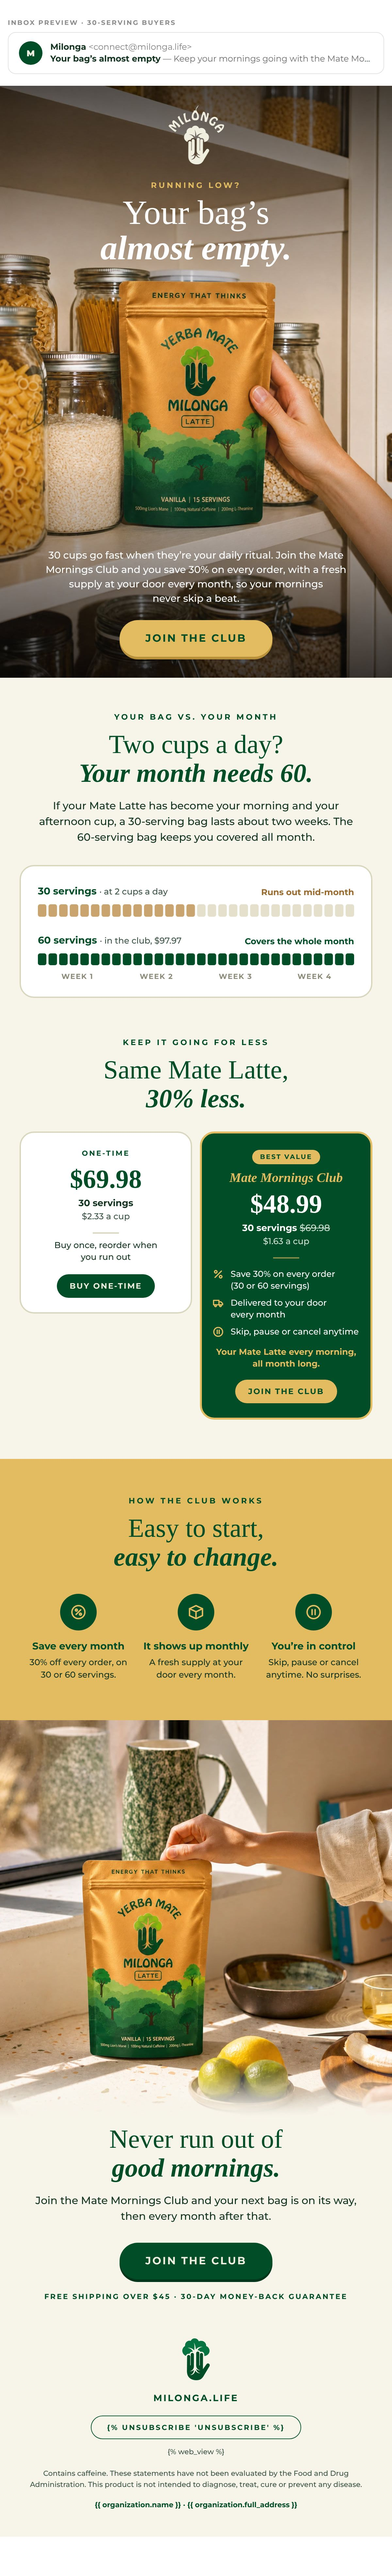
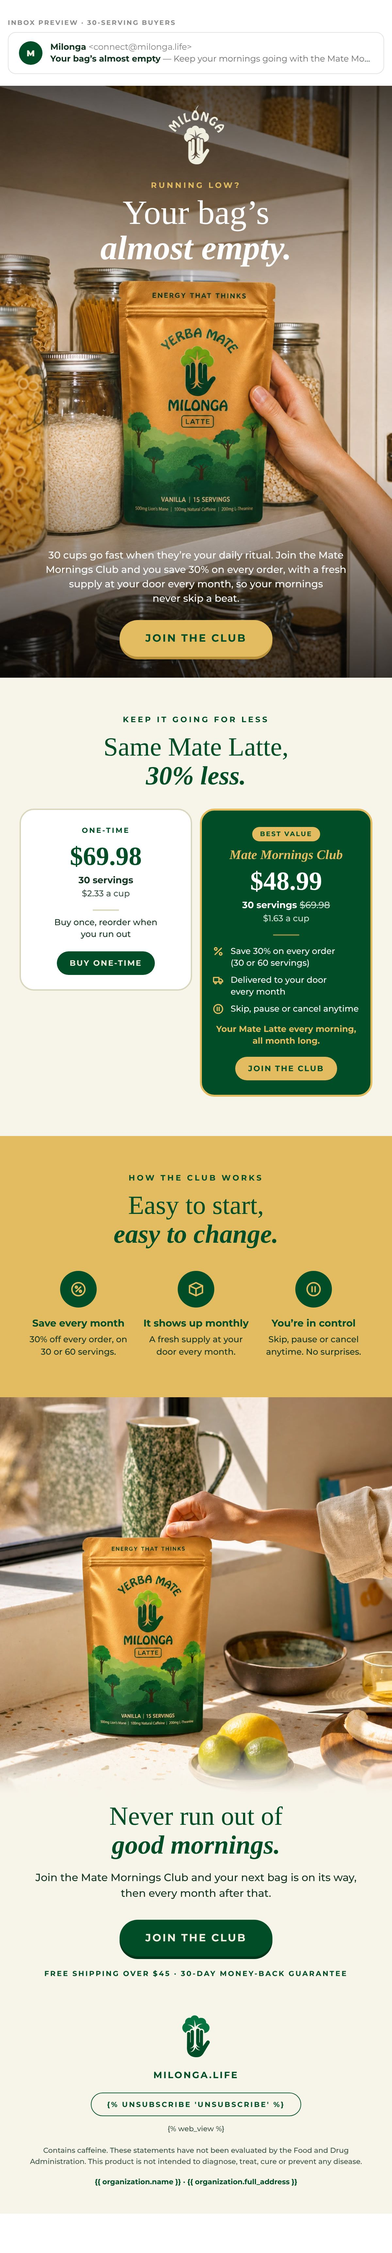
Post-purchase E3 (30 servings): remove the 'your bag vs. your month' section
Claude-Session: https://claude.ai/code/session_01NhEtXPnfeCJfN73SqBkUZ5

diff --git a/email-ds/exports/klaviyo/pp1-e3-30/pp1-e3-30.html b/email-ds/exports/klaviyo/pp1-e3-30/pp1-e3-30.html
@@ -90,36 +90,8 @@
 <!--[if gte mso 9]></v:textbox></v:rect><![endif]-->
 </td></tr>
 
-<!-- ── 2 · YOUR BAG VS. YOUR MONTH: a month of mornings, one segment a day; their bag
-     covers half of it, the next size up (in the club) all of it ── -->
-<tr><td class="pad bg-cream" align="center" bgcolor="#F7F4EA" style="background-color:#F7F4EA;padding:52px 40px 0;font-family:'Montserrat','Helvetica Neue',Helvetica,Arial,sans-serif;">
-<div style="font-size:12px;line-height:16px;font-weight:700;letter-spacing:3px;text-transform:uppercase;color:#004D27;">Your bag vs. your month</div>
-<div class="h-sec" style="padding-top:12px;font-family:'Times New Roman',Times,Georgia,serif;font-size:40px;line-height:44px;font-weight:400;color:#004D27;">Two cups a day?</div>
-<div class="h-sec" style="font-family:'Times New Roman',Times,Georgia,serif;font-size:40px;line-height:44px;font-weight:700;font-style:italic;color:#004D27;">Your month needs 60.</div>
-<div class="lead" style="padding-top:16px;font-size:16px;line-height:24px;font-weight:500;color:#12331F;">If your Mate Latte has become your morning and your afternoon cup, a 30-serving bag lasts about two weeks. The <span style="white-space:nowrap;">60-serving bag</span> keeps you covered <span style="white-space:nowrap;">all month.</span></div>
-</td></tr>
-<tr><td class="pad-photo bg-cream" bgcolor="#F7F4EA" style="background-color:#F7F4EA;padding:30px 30px 56px;">
-<table role="presentation" width="100%" cellpadding="0" cellspacing="0" border="0" style="border-collapse:separate;"><tr>
-<td class="month-card" bgcolor="#FFFFFF" style="background-color:#FFFFFF;border:2px solid #D9D6BE;border-radius:22px;padding:28px 26px 24px;font-family:'Montserrat','Helvetica Neue',Helvetica,Arial,sans-serif;">
-<table role="presentation" width="100%" cellpadding="0" cellspacing="0" border="0"><tr>
-<td class="month-label" align="left" valign="bottom" style="font-family:'Montserrat','Helvetica Neue',Helvetica,Arial,sans-serif;font-size:15px;line-height:19px;font-weight:700;color:#004D27;">30 servings <span class="month-price" style="font-size:13px;font-weight:500;color:#3B5344;"><span class="month-dot">&middot; </span>at 2 cups a day</span></td>
-<td class="month-verdict" align="right" valign="bottom" style="font-family:'Montserrat','Helvetica Neue',Helvetica,Arial,sans-serif;font-size:13px;line-height:17px;font-weight:700;color:#9A6B2F;">Runs out mid-month</td>
-</tr></table>
-<img class="month-bar" src="https://cdn.klaviyomail.com/company/TwvSnK/images/be2a5750-37c7-4c43-83a0-abaf8ab10509.png" width="484" height="19" alt="At two cups a day, half of the month covered" style="display:block;margin-top:10px;width:100%;max-width:484px;height:auto;border:0;">
-<div style="height:26px;line-height:26px;font-size:0;">&nbsp;</div>
-<table role="presentation" width="100%" cellpadding="0" cellspacing="0" border="0"><tr>
-<td class="month-label" align="left" valign="bottom" style="font-family:'Montserrat','Helvetica Neue',Helvetica,Arial,sans-serif;font-size:15px;line-height:19px;font-weight:700;color:#004D27;">60 servings <span class="month-price" style="font-size:13px;font-weight:500;color:#3B5344;"><span class="month-dot">&middot; </span>in the club, $97.97</span></td>
-<td class="month-verdict" align="right" valign="bottom" style="font-family:'Montserrat','Helvetica Neue',Helvetica,Arial,sans-serif;font-size:13px;line-height:17px;font-weight:700;color:#004D27;">Covers the whole month</td>
-</tr></table>
-<img class="month-bar" src="https://cdn.klaviyomail.com/company/TwvSnK/images/748504b7-e8ce-426c-8d30-90639a3341d1.png" width="484" height="19" alt="At two cups a day, all 30 days covered" style="display:block;margin-top:10px;width:100%;max-width:484px;height:auto;border:0;">
-<table role="presentation" width="100%" cellpadding="0" cellspacing="0" border="0" style="table-layout:fixed;margin-top:10px;"><tr>
-<td class="month-wk" width="25%" align="center" style="width:25%;font-family:'Montserrat','Helvetica Neue',Helvetica,Arial,sans-serif;font-size:11px;line-height:14px;font-weight:700;letter-spacing:1px;text-transform:uppercase;color:#8C8A78;">Week 1</td><td class="month-wk" width="25%" align="center" style="width:25%;font-family:'Montserrat','Helvetica Neue',Helvetica,Arial,sans-serif;font-size:11px;line-height:14px;font-weight:700;letter-spacing:1px;text-transform:uppercase;color:#8C8A78;">Week 2</td><td class="month-wk" width="25%" align="center" style="width:25%;font-family:'Montserrat','Helvetica Neue',Helvetica,Arial,sans-serif;font-size:11px;line-height:14px;font-weight:700;letter-spacing:1px;text-transform:uppercase;color:#8C8A78;">Week 3</td><td class="month-wk" width="25%" align="center" style="width:25%;font-family:'Montserrat','Helvetica Neue',Helvetica,Arial,sans-serif;font-size:11px;line-height:14px;font-weight:700;letter-spacing:1px;text-transform:uppercase;color:#8C8A78;">Week 4</td>
-</tr></table>
-</td></tr></table>
-</td></tr>
-
 <!-- ── 3 · ONE-TIME OR THE CLUB, SIDE BY SIDE (the cards from cart E1) ── -->
-<tr><td class="pad bg-cream" align="center" bgcolor="#F7F4EA" style="background-color:#F7F4EA;padding:4px 40px 0;font-family:'Montserrat','Helvetica Neue',Helvetica,Arial,sans-serif;">
+<tr><td class="pad bg-cream" align="center" bgcolor="#F7F4EA" style="background-color:#F7F4EA;padding:56px 40px 0;font-family:'Montserrat','Helvetica Neue',Helvetica,Arial,sans-serif;">
 <div style="font-size:12px;line-height:16px;font-weight:700;letter-spacing:3px;text-transform:uppercase;color:#004D27;">Keep it going for less</div>
 <div class="h-sec" style="padding-top:12px;font-family:'Times New Roman',Times,Georgia,serif;font-size:40px;line-height:44px;font-weight:400;color:#004D27;">Same Mate Latte,</div>
 <div class="h-sec" style="font-family:'Times New Roman',Times,Georgia,serif;font-size:40px;line-height:44px;font-weight:700;font-style:italic;color:#004D27;">30% less.</div>

diff --git a/email-ds/refine/pp1-e3-30.html b/email-ds/refine/pp1-e3-30.html
@@ -88,36 +88,8 @@ body{margin:0;background:#FFFFFF;padding:28px 0 60px}
 <!--[if gte mso 9]></v:textbox></v:rect><![endif]-->
 </td></tr>
 
-<!-- ── 2 · YOUR BAG VS. YOUR MONTH: a month of mornings, one segment a day; their bag
-     covers half of it, the next size up (in the club) all of it ── -->
-<tr><td class="pad bg-cream" align="center" bgcolor="#F7F4EA" style="background-color:#F7F4EA;padding:52px 40px 0;font-family:'Montserrat','Helvetica Neue',Helvetica,Arial,sans-serif;">
-<div style="font-size:12px;line-height:16px;font-weight:700;letter-spacing:3px;text-transform:uppercase;color:#004D27;">Your bag vs. your month</div>
-<div class="h-sec" style="padding-top:12px;font-family:'Times New Roman',Times,Georgia,serif;font-size:40px;line-height:44px;font-weight:400;color:#004D27;">Two cups a day?</div>
-<div class="h-sec" style="font-family:'Times New Roman',Times,Georgia,serif;font-size:40px;line-height:44px;font-weight:700;font-style:italic;color:#004D27;">Your month needs 60.</div>
-<div class="lead" style="padding-top:16px;font-size:16px;line-height:24px;font-weight:500;color:#12331F;">If your Mate Latte has become your morning and your afternoon cup, a 30-serving bag lasts about two weeks. The <span style="white-space:nowrap;">60-serving bag</span> keeps you covered <span style="white-space:nowrap;">all month.</span></div>
-</td></tr>
-<tr><td class="pad-photo bg-cream" bgcolor="#F7F4EA" style="background-color:#F7F4EA;padding:30px 30px 56px;">
-<table role="presentation" width="100%" cellpadding="0" cellspacing="0" border="0" style="border-collapse:separate;"><tr>
-<td class="month-card" bgcolor="#FFFFFF" style="background-color:#FFFFFF;border:2px solid #D9D6BE;border-radius:22px;padding:28px 26px 24px;font-family:'Montserrat','Helvetica Neue',Helvetica,Arial,sans-serif;">
-<table role="presentation" width="100%" cellpadding="0" cellspacing="0" border="0"><tr>
-<td class="month-label" align="left" valign="bottom" style="font-family:'Montserrat','Helvetica Neue',Helvetica,Arial,sans-serif;font-size:15px;line-height:19px;font-weight:700;color:#004D27;">30 servings <span class="month-price" style="font-size:13px;font-weight:500;color:#3B5344;"><span class="month-dot">&middot; </span>at 2 cups a day</span></td>
-<td class="month-verdict" align="right" valign="bottom" style="font-family:'Montserrat','Helvetica Neue',Helvetica,Arial,sans-serif;font-size:13px;line-height:17px;font-weight:700;color:#9A6B2F;">Runs out mid-month</td>
-</tr></table>
-<img class="month-bar" src="../exports/klaviyo/pp1-e3/img/bar-15.png" width="484" height="19" alt="At two cups a day, half of the month covered" style="display:block;margin-top:10px;width:100%;max-width:484px;height:auto;border:0;">
-<div style="height:26px;line-height:26px;font-size:0;">&nbsp;</div>
-<table role="presentation" width="100%" cellpadding="0" cellspacing="0" border="0"><tr>
-<td class="month-label" align="left" valign="bottom" style="font-family:'Montserrat','Helvetica Neue',Helvetica,Arial,sans-serif;font-size:15px;line-height:19px;font-weight:700;color:#004D27;">60 servings <span class="month-price" style="font-size:13px;font-weight:500;color:#3B5344;"><span class="month-dot">&middot; </span>in the club, $97.97</span></td>
-<td class="month-verdict" align="right" valign="bottom" style="font-family:'Montserrat','Helvetica Neue',Helvetica,Arial,sans-serif;font-size:13px;line-height:17px;font-weight:700;color:#004D27;">Covers the whole month</td>
-</tr></table>
-<img class="month-bar" src="../exports/klaviyo/pp1-e3/img/bar-30.png" width="484" height="19" alt="At two cups a day, all 30 days covered" style="display:block;margin-top:10px;width:100%;max-width:484px;height:auto;border:0;">
-<table role="presentation" width="100%" cellpadding="0" cellspacing="0" border="0" style="table-layout:fixed;margin-top:10px;"><tr>
-<td class="month-wk" width="25%" align="center" style="width:25%;font-family:'Montserrat','Helvetica Neue',Helvetica,Arial,sans-serif;font-size:11px;line-height:14px;font-weight:700;letter-spacing:1px;text-transform:uppercase;color:#8C8A78;">Week 1</td><td class="month-wk" width="25%" align="center" style="width:25%;font-family:'Montserrat','Helvetica Neue',Helvetica,Arial,sans-serif;font-size:11px;line-height:14px;font-weight:700;letter-spacing:1px;text-transform:uppercase;color:#8C8A78;">Week 2</td><td class="month-wk" width="25%" align="center" style="width:25%;font-family:'Montserrat','Helvetica Neue',Helvetica,Arial,sans-serif;font-size:11px;line-height:14px;font-weight:700;letter-spacing:1px;text-transform:uppercase;color:#8C8A78;">Week 3</td><td class="month-wk" width="25%" align="center" style="width:25%;font-family:'Montserrat','Helvetica Neue',Helvetica,Arial,sans-serif;font-size:11px;line-height:14px;font-weight:700;letter-spacing:1px;text-transform:uppercase;color:#8C8A78;">Week 4</td>
-</tr></table>
-</td></tr></table>
-</td></tr>
-
 <!-- ── 3 · ONE-TIME OR THE CLUB, SIDE BY SIDE (the cards from cart E1) ── -->
-<tr><td class="pad bg-cream" align="center" bgcolor="#F7F4EA" style="background-color:#F7F4EA;padding:4px 40px 0;font-family:'Montserrat','Helvetica Neue',Helvetica,Arial,sans-serif;">
+<tr><td class="pad bg-cream" align="center" bgcolor="#F7F4EA" style="background-color:#F7F4EA;padding:56px 40px 0;font-family:'Montserrat','Helvetica Neue',Helvetica,Arial,sans-serif;">
 <div style="font-size:12px;line-height:16px;font-weight:700;letter-spacing:3px;text-transform:uppercase;color:#004D27;">Keep it going for less</div>
 <div class="h-sec" style="padding-top:12px;font-family:'Times New Roman',Times,Georgia,serif;font-size:40px;line-height:44px;font-weight:400;color:#004D27;">Same Mate Latte,</div>
 <div class="h-sec" style="font-family:'Times New Roman',Times,Georgia,serif;font-size:40px;line-height:44px;font-weight:700;font-style:italic;color:#004D27;">30% less.</div>
